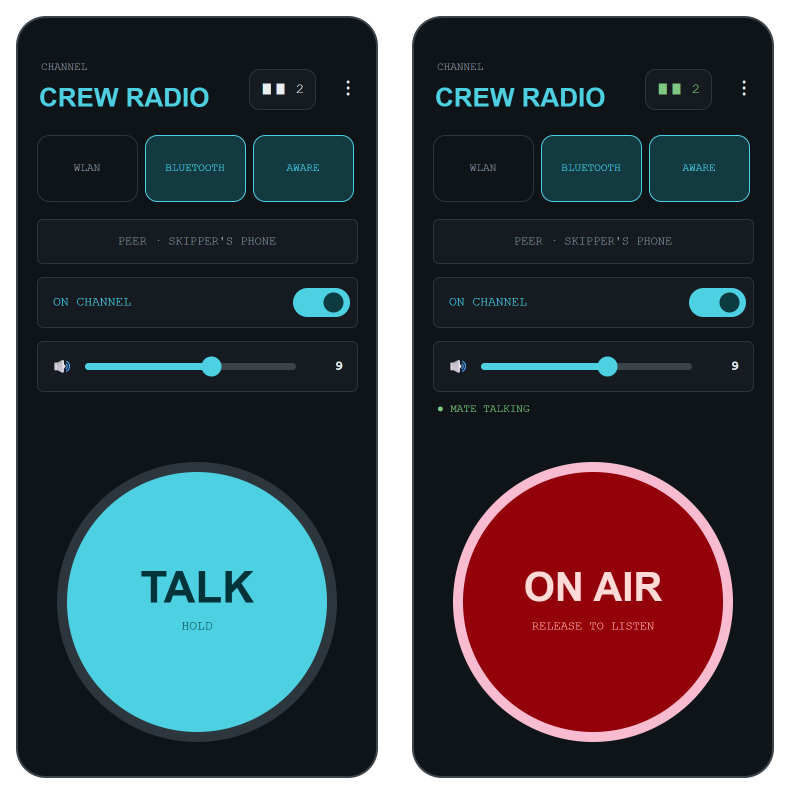
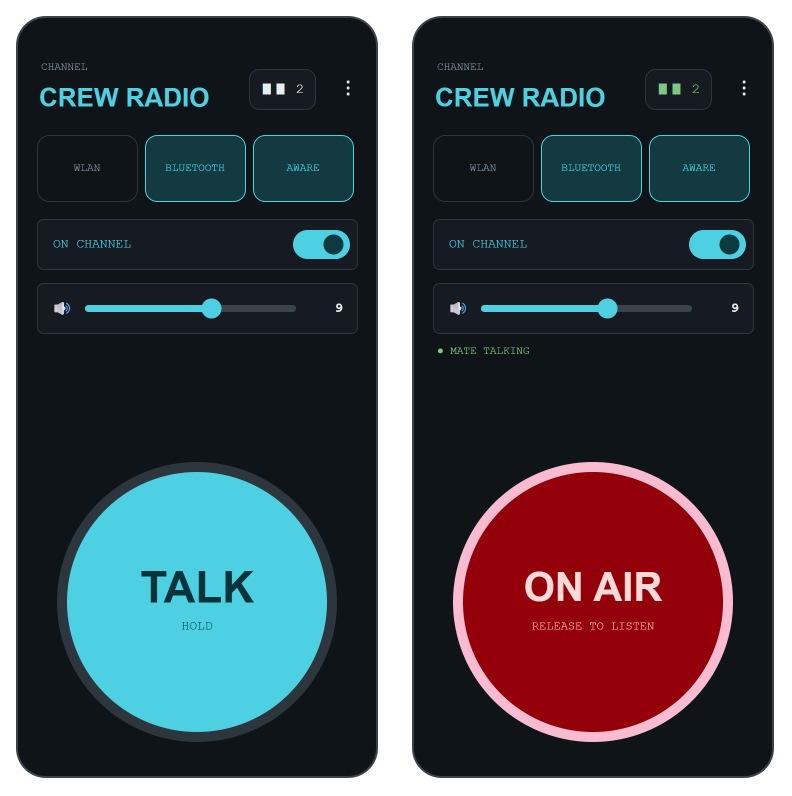
Main screen: give the disc the room, and dim it off channel
The Bluetooth peer row is a before-Connect choice: the peer is a
constructor argument of BluetoothTransport, so on channel the bar can
do nothing but take space above the disc. Hide it while connected and
bring it back, pressable, when the switch goes off; syncUi now calls
refreshPeer instead of dimming the row.

The talk disc does nothing off channel either, so it is dimmed to the
same 0.55 the mute glyph and the transport tiles already use.

The generated mock-ups follow: the peer row is drawn only off channel
and the off-channel disc carries the dimmed colours.

Changed region(s): [[0.5455, 0.2714, 0.9394, 0.5126], [0.0606, 0.2714, 0.4545, 0.4824], [0.4242, 0.4523, 0.4545, 0.4824]]

diff --git a/app/src/main/java/fi/crewradio/MainActivity.kt b/app/src/main/java/fi/crewradio/MainActivity.kt
@@ -458,7 +458,7 @@ class MainActivity : AppCompatActivity() {
         channelState.setTextColor(ContextCompat.getColor(this, if (muted) R.color.error else if (connected) R.color.primary else R.color.text_dim))
         renderVolume()
         for (tile in tiles) tile.root.alpha = if (!tile.available) 0.4f else if (connected) 0.55f else 1f
-        peerButton.alpha = if (connected) 0.55f else 1f
+        refreshPeer()
         // The screen stays on only while on channel, and only if the user wants it to.
         if (connected && prefs.keepScreenOn) window.addFlags(WindowManager.LayoutParams.FLAG_KEEP_SCREEN_ON)
         else window.clearFlags(WindowManager.LayoutParams.FLAG_KEEP_SCREEN_ON)
@@ -498,6 +498,8 @@ class MainActivity : AppCompatActivity() {
         pttButton.backgroundTintList = ColorStateList.valueOf(ContextCompat.getColor(this, if (live) R.color.on_air else R.color.primary))
         pttButton.setTextColor(ContextCompat.getColor(this, if (live) R.color.on_air_text else R.color.on_primary))
         pttButton.strokeColor = ColorStateList.valueOf(ContextCompat.getColor(this, if (live) R.color.error else R.color.outline))
+        // Off channel the disc does nothing, so it is dimmed, like the mute glyph on the volume row.
+        pttButton.alpha = if (e?.isConnected == true) 1f else 0.55f
         ViewCompat.replaceAccessibilityAction(
             pttButton, AccessibilityActionCompat.ACTION_CLICK,
             getString(if (live) R.string.a11y_talk_stop else R.string.a11y_talk_start)
@@ -595,8 +597,14 @@ class MainActivity : AppCompatActivity() {
         if (askSheet == null) Toast.makeText(this, R.string.ask_no_server, Toast.LENGTH_SHORT).show()
     }
 
+    /**
+     * The Bluetooth peer row: hidden while Bluetooth is off, and hidden again while on channel.
+     * The peer is a constructor argument of the transport, so it is chosen before Connect and
+     * cannot be changed during a session; on channel it is only a bar that does nothing, and the
+     * screen above the disc is better spent on who is talking.
+     */
     private fun refreshPeer() {
-        if (!tileOn(Prefs.KEY_USE_BT)) {
+        if (!tileOn(Prefs.KEY_USE_BT) || engine?.isConnected == true) {
             peerButton.visibility = View.GONE
             return
         }

diff --git a/docs/diagrams/make_diagrams.py b/docs/diagrams/make_diagrams.py
@@ -129,7 +129,8 @@ def main_screen(p, x, y, state, peers="2", peer_row=True, bt=True):
         n.append(rect(p + f"t{i}", tx, y + 118, 100, 66, fill=(CYAN_DIM if active else BG), stroke=(CYAN if active else OUTLINE), arc=18,
                       label=name, color=(CYAN if active else MUTED), size=11))
     row_y = y + 202
-    if peer_row and bt:
+    # The peer row is a before-Connect choice, so the app hides it while on channel.
+    if peer_row and bt and not on:
         n.append(rect(p + "pr", x + 20, row_y, 320, 44, label="PEER · SKIPPER'S PHONE", color=MUTED, size=12))
         row_y += 58
     n.append(rect(p + "sw", x + 20, row_y, 320, 50))
@@ -152,9 +153,13 @@ def main_screen(p, x, y, state, peers="2", peer_row=True, bt=True):
         n.append(txt(p + "d1", "ON AIR", cx - r, cy - 40, 2 * r, 50, 40, "#FFDAD6", bold=True, align="center", mono=False))
         n.append(txt(p + "d2", "RELEASE TO LISTEN", cx - r, cy + 12, 2 * r, 24, 12, "#FFB4AB", align="center", spacing=2))
     else:
-        n.append((p + "d", "", cx - r, cy - r, 2 * r, 2 * r, f"ellipse;whiteSpace=wrap;html=1;fillColor={CYAN};strokeColor=#2C363C;strokeWidth=10;"))
-        n.append(txt(p + "d1", "TALK", cx - r, cy - 40, 2 * r, 50, 44, "#00343A", bold=True, align="center", mono=False))
-        n.append(txt(p + "d2", "HOLD", cx - r, cy + 12, 2 * r, 24, 13, "#00494F", align="center", spacing=3))
+        # Off channel the disc does nothing, and the app dims it: these are its colours at the
+        # same 55 % over the background.
+        fill, ring = (CYAN, "#2C363C") if on else ("#317B87", "#1F272C")
+        big, small = ("#00343A", "#00494F") if on else ("#07262B", "#073136")
+        n.append((p + "d", "", cx - r, cy - r, 2 * r, 2 * r, f"ellipse;whiteSpace=wrap;html=1;fillColor={fill};strokeColor={ring};strokeWidth=10;"))
+        n.append(txt(p + "d1", "TALK", cx - r, cy - 40, 2 * r, 50, 44, big, bold=True, align="center", mono=False))
+        n.append(txt(p + "d2", "HOLD", cx - r, cy + 12, 2 * r, 24, 13, small, align="center", spacing=3))
     return n
 
 

diff --git a/README.md b/README.md
@@ -61,9 +61,10 @@ no account, no internet, no subscription. Connecting people, with what is in the
    services switched on — with them off the app stops before joining and offers a **Location
    settings** button); **BLUETOOTH** for any two phones paired in the phone's Bluetooth settings.
    Tick more than one if you have them.
-2. **Bluetooth only:** on one phone choose *Listen only* in the peer row, on the other pick that
-   phone from the list. Bluetooth links pairs of phones; a phone can be the listening end for
-   several others.
+2. **Bluetooth only:** before joining, on one phone choose *Listen only* in the peer row, on the
+   other pick that phone from the list. Bluetooth links pairs of phones; a phone can be the
+   listening end for several others. The peer is fixed when you join, so the row disappears
+   while you are on channel and comes back when you leave.
 3. **Join the channel.** Tap the switch row. It reads *ON CHANNEL*, the head count at the top
    shows who else is there, and the notification says what the links are doing.
 4. **Talk.** Hold the big disc. It turns red, *ON AIR*, and everyone hears you. Let go to

diff --git a/CLAUDE.md b/CLAUDE.md
@@ -118,7 +118,9 @@ MainActivity -(bind)-> PttService -> PttEngine -> Transport (LanTransport | Blue
   4 s = dropped. `onRoster` fires only when the rendered list changes; the service mirrors the
   head count into the notification title. Display name = Android device name, else `Build.MODEL`.
 - The main screen shows only what matters while talking (head count, one status line, who is
-  talking); `StatusActivity` (menu > Status) polls `engine.rosterNow`, `engine.stats()` and
+  talking): the Bluetooth peer row is hidden while on channel (the peer is a constructor argument
+  of the transport, so it is a before-Connect choice) and the talk disc is dimmed to 0.55 while
+  off it, like the mute glyph. `StatusActivity` (menu > Status) polls `engine.rosterNow`, `engine.stats()` and
   `service.statusLog` once a second for the detail. Keep diagnostics there, not on the main screen.
 - Loss concealment lives in `audio/Mixer` + `audio/Conceal`, not the codec: MediaCodec cannot
   ask the AOSP Opus decoder for PLC (an empty buffer yields empty output). Audio frames and hellos

diff --git a/docs/ARCHITECTURE.md b/docs/ARCHITECTURE.md
@@ -8,7 +8,8 @@ the people who change it. Everything here is about the `app` module, package `fi
 <img src="images/architecture.png" alt="What runs where" width="760">
 
 - **`MainActivity`** is the one screen that matters while talking: channel name, head count,
-  transport tiles, the peer row (Bluetooth only), the channel switch and the talk disc. It binds
+  transport tiles, the peer row (Bluetooth only, and only off channel), the channel switch and
+  the talk disc, dimmed until the channel is joined. It binds
   to the service while visible and never leaves the channel on its own lifecycle.
 - **`PttService`** is a foreground service (types microphone | connected device). It owns the
   engine, the partial wake lock and the low-latency Wi‑Fi lock, the notification that mirrors
